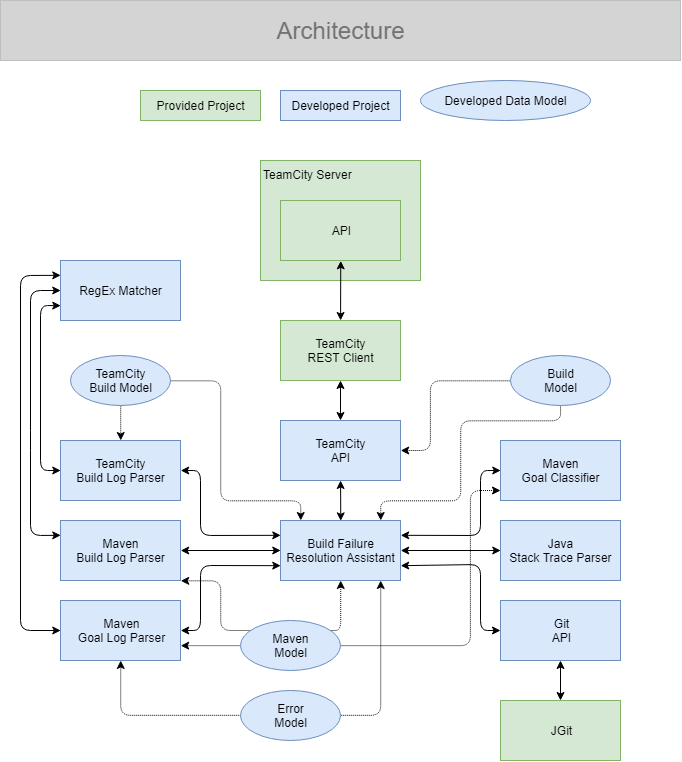
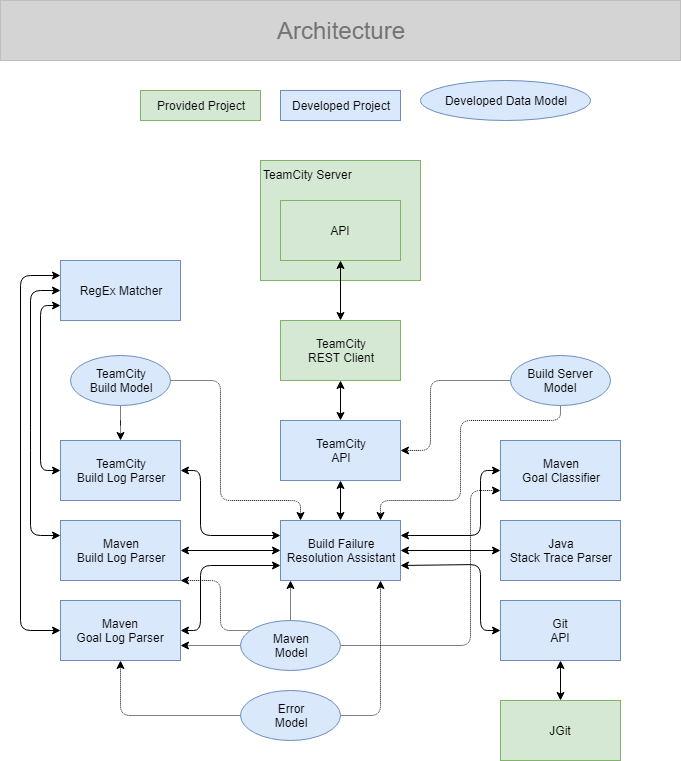
Rename build-model to build-server-model

diff --git a/teamcity-api/README.md b/teamcity-api/README.md
@@ -1,11 +1,11 @@
 # TeamCity API
 
-> _Maps builds from TeamCity to the [build-model](../build-model/README.md) and downloads build logs._
+> _Maps data from TeamCity to the [build-server-model](../build-server-model/README.md) and downloads build logs._
 
 ## Features
 
 - get a list of all projects configured on TeamCity
-- map all builds of a build configuration to the [build-model](../build-model/README.md)
+- map all builds of a build configuration to the [build-server-model](../build-server-model/README.md)
 - test credentials for a specific TeamCity server instance
 - download a build log
 
